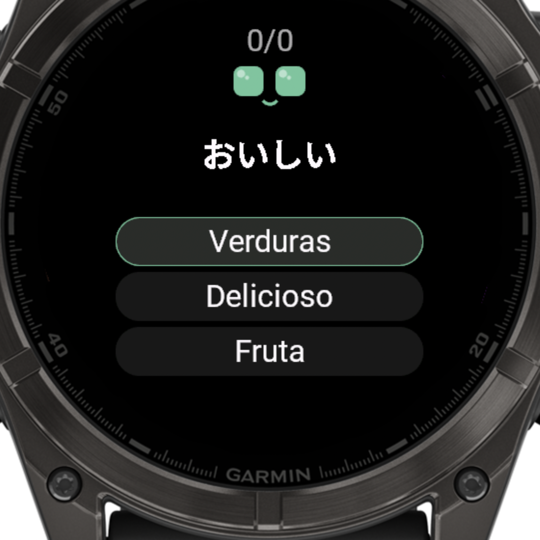
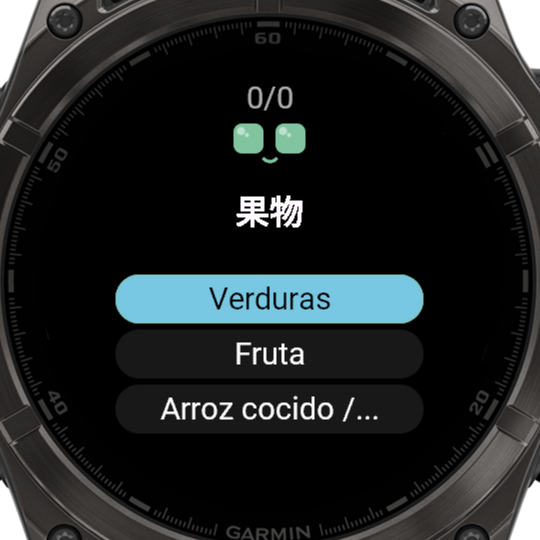
Reescribe el README con enfoque en funcionalidad y actualiza capturas

diff --git a/README.md b/README.md
@@ -1,13 +1,13 @@
 # Mi Asistente — Garmin fēnix 8
 
-Asistente personal con voz para el **Garmin fēnix 8 47mm AMOLED**, hecho con
-Connect IQ (Monkey C) y un backend en Vercel. Le preguntas hablando y responde
-en pantalla y por el altavoz del reloj, usando tus tareas, tus notas y los
-datos del propio reloj. Incluye práctica de japonés N5.
+Asistente personal por voz para el **Garmin fēnix 8 47mm AMOLED**, desarrollado
+con Connect IQ (Monkey C) y un backend serverless en Vercel. Responde en
+pantalla y por el altavoz del reloj, con el contexto de tus tareas, tus notas y
+los datos de salud y actividad del propio reloj. Incluye un módulo de práctica
+de japonés (nivel N5) y un panel web para administrarlo desde el teléfono.
 
-La cara sigue el estilo de [Monki](https://github.com/Niicko12/monki), el
-asistente de la Anbernic RG353V, pero es un asistente aparte: no usa su
-palabra de activación ni se conecta con él.
+El diseño de la interfaz se inspira en [Monki](https://github.com/Niicko12/monki),
+el asistente de la Anbernic RG353V.
 
 <p align="center">
   <img src="docs/capturas/01-escuchando.png" width="240" alt="Pantalla escuchando: ojos cian, aro de tiempo restante y texto Te escucho">
@@ -15,47 +15,53 @@ palabra de activación ni se conecta con él.
   <img src="docs/capturas/03-respuesta.png" width="240" alt="Respuesta: la pregunta entre comillas y la respuesta debajo">
 </p>
 
-<sub>Capturas del simulador de Connect IQ (fēnix 8 47mm). Los datos de actividad del simulador son ficticios.</sub>
+<sub>Capturas del simulador de Connect IQ (fēnix 8 47mm) con datos de ejemplo.</sub>
 
-## Qué hace
+## Funciones
 
-| Función | Detalle |
+| Función | Descripción |
 |---|---|
-| **Preguntar por voz** | Al abrir la app empieza a escuchar (hasta 12 s; toca para terminar). El audio va al backend, se transcribe y se responde. |
-| **Responde en voz alta** | La respuesta suena por el altavoz del reloj, por frases, mientras la boca se anima. |
-| **Datos del reloj** | Cada pregunta lleva batería, pasos, calorías, distancia, pisos, minutos de intensidad, pulso actual y en reposo, Body Battery, estrés, SpO2, respiración, recuperación, VO2máx, horario de sueño, clima y amanecer/atardecer. |
-| **Tareas y notas** | Se guardan en el reloj; las notas usan plantillas o el teclado. Las pendientes viajan como contexto. |
-| **Japonés N5** | Tarjetas con lectura, romaji, significado y pronunciación; quiz de 3 opciones que repite lo que fallas; quiz de hiragana; racha de días. Los verbos van en forma cortés ます y se traducen conjugados: たべます = «como (comer)». |
-| **Panel en el teléfono** | Menú → Configurar (QR) muestra un QR hacia [/api/setup](https://mi-asistente-garmin.vercel.app/api/setup) y un código de 6 dígitos para enlazarlo (vale 10 minutos y 5 intentos). Desde el panel: tareas, notas, preguntas rápidas, proyectos, tarjetas de japonés (la IA completa lectura, romaji y significado) y claves de IA. El reloj lo recoge al abrir su menú. |
-| **Estados visuales** | Ojos estilo Monki: disponible, escuchando, pensando, hablando, sin conexión y error. |
+| **Preguntas por voz** | La app empieza a escuchar al abrirse (hasta 12 s; un toque termina la grabación). El audio se transcribe y se responde en segundos. |
+| **Respuesta hablada** | La respuesta se reproduce por el altavoz del reloj, frase a frase, con la boca animada. |
+| **Contexto del reloj** | Cada pregunta incluye batería, pasos, calorías, distancia, pisos, minutos de intensidad, pulso actual y en reposo, Body Battery, estrés, SpO2, respiración, recuperación, VO2máx, horario de sueño, clima y amanecer/atardecer. |
+| **Tareas y notas** | Se guardan en el reloj, con plantillas o teclado, y acompañan cada pregunta como contexto. |
+| **Preguntas rápidas y proyectos** | Accesos directos a preguntas frecuentes y seguimiento de proyectos (último avance y siguiente paso). |
+| **Japonés N5** | Tarjetas con lectura, romaji, significado y pronunciación; quiz de tres opciones que prioriza lo que fallas; quiz de hiragana; racha diaria. Los verbos se presentan en forma cortés ます con su traducción conjugada (たべます = «como (comer)»). |
+| **Panel en el teléfono** | Menú → Configurar (QR): se escanea el QR y se enlaza con el código de 6 dígitos que muestra el reloj. Desde el panel se agregan tareas, notas, preguntas rápidas, proyectos y tarjetas de japonés (la IA completa lectura, romaji y significado), y se administran las claves de IA. |
+| **Estados visuales** | Ojos animados para disponible, escuchando, pensando, hablando, sin conexión y error. |
 
 <p align="center">
   <img src="docs/capturas/04-menu.png" width="180" alt="Menú principal">
   <img src="docs/capturas/05-japones-tarjeta.png" width="180" alt="Tarjeta de japonés sin voltear">
   <img src="docs/capturas/06-japones-revelada.png" width="180" alt="Tarjeta volteada con lectura, romaji y significado">
-  <img src="docs/capturas/07-japones-quiz.png" width="180" alt="Quiz de vocabulario con tres opciones">
+  <img src="docs/capturas/07-japones-quiz.png" width="180" alt="Quiz de vocabulario con la opción seleccionada en cian">
 </p>
 <p align="center">
-  <img src="docs/capturas/08-hiragana-quiz.png" width="180" alt="Quiz de hiragana tras una respuesta incorrecta">
+  <img src="docs/capturas/08-hiragana-quiz.png" width="180" alt="Quiz de hiragana con la respuesta correcta en verde">
   <img src="docs/capturas/09-diagnostico.png" width="180" alt="Pantalla de diagnóstico de capacidades">
+  <img src="docs/capturas/10-panel-qr.png" width="180" alt="QR del panel y código de enlace de 6 dígitos">
 </p>
 
-## Cómo funciona
+## Arquitectura
 
 ```text
 fēnix 8 ──BLE──▶ iPhone (Garmin Connect) ──HTTPS──▶ Vercel (integration-service)
   │                                                    │
   │  micrófono: Ogg/Opus 16 kHz                         ├─ Voz a texto: Whisper (Groq)
   │  datos del reloj + tareas + notas                   ├─ Respuesta: Groq ─▶ NVIDIA ─▶ Gemini
-  │                                                    └─ Texto a voz: Gemini ─▶ Google Cloud ─▶ Edge
+  │                                                    ├─ Texto a voz: Gemini ─▶ Google Cloud ─▶ Edge
+  │                                                    └─ Panel y sincronización: Vercel Blob (privado)
   ◀── respuesta (JSON) y voz por partes (Ogg/Opus en base64)
+
+iPhone (navegador) ──HTTPS──▶ /api/setup (panel) ──▶ /api/config
 ```
 
-- **Las claves de IA nunca están en el reloj.** El reloj solo conoce un token de dispositivo.
-- **Respaldo en cadena**, como en Monki: si un proveedor falla o se queda sin cuota, se usa el siguiente; el que se queda sin cuota se salta 10 minutos.
-- **Voz por partes:** el reloj rechaza respuestas web grandes (~27 KB fallaba, ~5–9 KB funciona). El texto se parte en frases y el reloj pide la siguiente mientras suena la actual.
-- **Fuente japonesa propia:** las fuentes del sistema no tienen kana ni kanji; `tools/make_font.py` genera una fuente BMFont con todo el hiragana y katakana más los kanji del mazo (223 caracteres). Las tarjetas del teléfono con kanji fuera de la fuente se muestran con su lectura en kana.
-- **Panel y claves:** lo que se agrega desde el teléfono y las claves de IA se guardan en un Blob privado de Vercel; las claves van cifradas (AES-256-GCM con una clave derivada de `DEVICE_TOKEN`) y tienen prioridad sobre las variables de entorno.
+- **Seguridad:** las claves de IA nunca se guardan en el reloj; el reloj se identifica con un token de dispositivo. Las claves que se cargan desde el panel se almacenan cifradas (AES-256-GCM) en un Blob privado y tienen prioridad sobre las variables de entorno.
+- **Enlace del panel:** el reloj solicita un código de 6 dígitos (válido 10 minutos y 5 intentos) que el teléfono canjea por una sesión. El token del dispositivo no se escribe en el teléfono.
+- **Alta disponibilidad:** cada servicio tiene proveedores de respaldo en cadena; un proveedor sin cuota se omite temporalmente.
+- **Voz por partes:** la respuesta se divide en frases y el reloj solicita la siguiente mientras reproduce la actual, para mantener cada transferencia ligera.
+- **Sincronización:** al abrir el menú, el reloj recoge lo agregado en el panel (`/api/sync`) y confirma lo guardado.
+- **Tipografía japonesa:** `tools/make_font.py` genera una fuente BMFont con el hiragana y katakana completos y los kanji del mazo. Las tarjetas creadas desde el panel se muestran con su lectura en kana cuando un kanji no forma parte de la fuente.
 
 ## Estructura
 
@@ -64,32 +70,33 @@ mi-asistente-garmin/
 ├── garmin-connect-iq/          app del reloj (Monkey C)
 │   ├── manifest.xml
 │   ├── Secrets.mc.example      plantilla de URL y token (Secrets.mc no se versiona)
-│   ├── resources/              textos, icono, QR de configuración y fuente japonesa
-│   └── source/
-│       ├── ListenView.mc       escuchar ▶ enviar ▶ responder
-│       ├── AnswerPanel.mc      respuesta con texto partido para pantalla redonda
-│       ├── SpeechPlayer.mc     voz por partes con Audio.Output
-│       ├── VoiceRecorder.mc    micrófono con Audio.Capture
-│       ├── WatchData.mc        datos del reloj que viajan con cada pregunta
-│       ├── EyesRenderer.mc     cara estilo Monki
-│       ├── Jp*.mc, JapaneseDeck.mc   práctica de japonés
-│       ├── SetupQrView.mc      QR del panel del teléfono
-│       ├── PhoneSync.mc        recoge tareas, notas y tarjetas del panel
-│       ├── JpCustom.mc         tarjetas de japonés del teléfono
-│       ├── JpCharset.mc        caracteres de la fuente (generado)
-│       └── Theme.mc            colores compartidos
+│   ├── resources/              textos, icono, QR del panel y fuente japonesa
+│   ├── source/
+│   │   ├── ListenView.mc       escuchar ▶ enviar ▶ responder
+│   │   ├── AnswerPanel.mc      respuesta adaptada a pantalla redonda
+│   │   ├── SpeechPlayer.mc     voz por partes con Audio.Output
+│   │   ├── VoiceRecorder.mc    micrófono con Audio.Capture
+│   │   ├── WatchData.mc        datos del reloj enviados con cada pregunta
+│   │   ├── EyesRenderer.mc     cara animada
+│   │   ├── Jp*.mc, JapaneseDeck.mc   módulo de japonés
+│   │   ├── JpCustom.mc         tarjetas creadas desde el panel
+│   │   ├── JpCharset.mc        caracteres de la fuente (generado)
+│   │   ├── SetupQrView.mc      QR y código de enlace del panel
+│   │   ├── PhoneSync.mc        sincronización con el panel
+│   │   └── Theme.mc            colores compartidos
+│   └── test/                   pruebas unitarias (Connect IQ Test)
 ├── integration-service/        backend en Vercel (Node.js + TypeScript)
 │   ├── api/ask.ts              pregunta escrita
 │   ├── api/ask-audio.ts        pregunta hablada
 │   ├── api/speak.ts            voz por partes
-│   ├── api/setup.ts            panel y guía para el teléfono (página HTML)
-│   ├── api/config.ts           lo que usa el panel: claves, bandeja y tarjetas
-│   ├── api/sync.ts             el reloj recoge lo agregado en el panel
-│   ├── api/pair.ts             código de 6 dígitos para enlazar el panel
-│   └── lib/                    proveedores de IA, voz, config (Blob) y codificador Ogg/Opus
+│   ├── api/setup.ts            panel web para el teléfono
+│   ├── api/pair.ts             código de enlace del panel
+│   ├── api/config.ts           API del panel
+│   ├── api/sync.ts             sincronización con el reloj
+│   └── lib/                    proveedores de IA y voz, configuración y codificador Ogg/Opus
 ├── tools/
-│   ├── mtp_send.py             instalar en el reloj por MTP
-│   └── make_font.py            generar la fuente japonesa y JpCharset.mc
+│   ├── mtp_send.py             instalación en el reloj por MTP
+│   └── make_font.py            fuente japonesa y JpCharset.mc
 └── docs/                       plan, validación de capacidades, capturas y mockup
 ```
 
@@ -105,10 +112,11 @@ vercel env add DEVICE_TOKEN production     # p. ej. openssl rand -hex 32
 vercel env add GROQ_API_KEY production
 vercel env add NVIDIA_API_KEY production   # opcional
 vercel env add GEMINI_API_KEY production
+vercel blob create-store mi-asistente-config --access private   # almacenamiento del panel
 vercel deploy --prod
 ```
 
-Detalle de endpoints y variables en [integration-service/README.md](integration-service/README.md).
+Endpoints y variables en [integration-service/README.md](integration-service/README.md).
 
 ### App del reloj
 
@@ -118,10 +126,10 @@ con el dispositivo `fenix847mm`, Java 17 y una clave de desarrollador:
 ```bash
 openssl genrsa -out developer_key.pem 4096
 openssl pkcs8 -topk8 -inform PEM -outform DER -in developer_key.pem -out developer_key.der -nocrypt
-cp garmin-connect-iq/Secrets.mc.example garmin-connect-iq/source/Secrets.mc   # y completar
+cp garmin-connect-iq/Secrets.mc.example garmin-connect-iq/source/Secrets.mc   # completar URL y token
 ```
 
-Compilar y probar en el simulador (en macOS, Java de Homebrew no está enlazado al sistema):
+Compilar y ejecutar en el simulador:
 
 ```bash
 export PATH="/opt/homebrew/opt/openjdk@17/bin:$PATH"
@@ -132,75 +140,57 @@ cd garmin-connect-iq
 "${SDK}bin/monkeydo" bin/MiAsistente.prg fenix847mm
 ```
 
-Pruebas unitarias (quiz y tarjetas del teléfono) en el simulador:
+Pruebas unitarias:
 
 ```bash
 "${SDK}bin/monkeyc" -d fenix847mm -f monkey.jungle -o bin/test.prg -y ../developer_key.der -t
 "${SDK}bin/monkeydo" bin/test.prg fenix847mm -t
 ```
 
-Regenerar la fuente japonesa tras cambiar el mazo (requiere Pillow y `tools/fonts/NotoSansJP.ttf`):
+### Instalación en el reloj
 
-```bash
-python3 -I tools/make_font.py tools/fonts/NotoSansJP.ttf garmin-connect-iq/source/JapaneseDeck.mc \
-  garmin-connect-iq/resources/fonts 34 garmin-connect-iq/source/JpCharset.mc
-```
-
-### Instalar en el reloj
-
-El fēnix 8 se conecta por MTP, no aparece en Finder. Conectarlo **directo al
-Mac (sin hub)** y en modo MTP; requiere `brew install libmtp`.
+El fēnix 8 se conecta por MTP. Con el reloj conectado directamente al Mac en
+modo MTP (requiere `brew install libmtp`):
 
 ```bash
 mtp-folders | grep -A1 GARMIN       # ID de la carpeta Apps
 python3 -I tools/mtp_send.py "$PWD/garmin-connect-iq/bin/MiAsistente.prg" <ID>
 ```
 
-El reloj instala la app al desconectar el cable. `mtp-sendfile` no sirve: no
-resuelve la ruta `GARMIN/Apps`.
+La app se instala al desconectar el cable.
 
-### Uso
+## Uso
 
-- Asignar Mi Asistente a un acceso directo (Ajustes → Sistema → Teclas de acceso rápido) para abrirla y hablar al instante.
-- En la app: toca para terminar de hablar o para preguntar otra vez; UP/DOWN desplaza respuestas largas.
-- Menú → **Configurar (QR)**: escanéalo con el iPhone y escribe el código de 6 dígitos que aparece debajo (o el `DEVICE_TOKEN`). El teléfono queda enlazado. El reloj recoge lo nuevo al abrir su menú (con el iPhone cerca; como mucho cada 2 minutos).
-- Japonés → Quiz: toca la opción, o mueve el resaltado cian con UP/DOWN y confirma con START. Un toque fuera de las opciones no responde. Cada significado cabe completo en su fila (lo comprueba `quizLabelsFit`).
+- **Acceso rápido:** asigna Mi Asistente a una tecla (Ajustes → Sistema → Teclas de acceso rápido) para preguntar al instante.
+- **Preguntar:** habla al abrir la app; un toque termina la grabación o inicia otra pregunta. UP/DOWN desplaza respuestas largas.
+- **Panel:** Menú → Configurar (QR). Escanea el QR con el iPhone y escribe el código de 6 dígitos. El teléfono queda enlazado y los cambios llegan al reloj al abrir su menú.
+- **Quiz de japonés:** toca una opción, o muévete con UP/DOWN y confirma con START.
 
 <p align="center">
-  <img src="docs/setup-qr.png" width="160" alt="QR que abre la guía de configuración en mi-asistente-garmin.vercel.app/api/setup">
+  <img src="docs/setup-qr.png" width="160" alt="QR del panel: mi-asistente-garmin.vercel.app/api/setup">
 </p>
 
-Para regenerar el QR si cambia la URL (requiere `pip install segno`):
+## Mantenimiento
+
+Regenerar la fuente japonesa tras modificar el mazo (requiere Pillow y `tools/fonts/NotoSansJP.ttf`):
+
+```bash
+python3 -I tools/make_font.py tools/fonts/NotoSansJP.ttf garmin-connect-iq/source/JapaneseDeck.mc \
+  garmin-connect-iq/resources/fonts 34 garmin-connect-iq/source/JpCharset.mc
+```
+
+Regenerar el QR si cambia la URL del backend (requiere `pip install segno`):
 
 ```bash
 python3 -c "import segno; q=segno.make('https://mi-asistente-garmin.vercel.app/api/setup', error='m'); \
-q.save('garmin-connect-iq/resources/drawables/setup_qr.png', scale=7, border=2); q.save('docs/setup-qr.png', scale=10, border=4)"
+q.save('garmin-connect-iq/resources/drawables/setup_qr.png', scale=6, border=2); q.save('docs/setup-qr.png', scale=10, border=4)"
 ```
-
-## Limitaciones conocidas
-
-- **No hay palabra de activación.** Connect IQ solo permite usar el micrófono con la app abierta en pantalla.
-- **Puntaje de sueño:** solo lo pueden leer las carátulas (`ComplicationSubscriber`), no las apps.
-- **Edge TTS** es un servicio no oficial de Microsoft; si deja de funcionar, la voz depende de Gemini o de Google Cloud TTS (`GOOGLE_TTS_API_KEY`).
-- Las preguntas necesitan el iPhone cerca con Garmin Connect.
-- Si el asistente responde algo en japonés, lo escribe en romaji y la voz en español lo pronuncia mal.
-
-## Antes de publicar en Connect IQ Store
-
-La app es de uso personal. Para publicarla (gratis o de pago) falta:
-
-- **Un token por usuario** o validar la compra con la API de licencias de Garmin: hoy `DEVICE_TOKEN` es único y va dentro de la app.
-- **Límite de preguntas por usuario**: cada pregunta consume las claves de IA del backend.
-- **Quitar Edge TTS**, que es un servicio no oficial.
-- **Política de privacidad**: la app envía audio y datos de salud.
-- **Más modelos** en `manifest.xml` (solo compila para `fenix847mm`).
-- Cuenta en el Garmin Developer Program y pagos de Connect IQ disponibles en el país.
 
 ## Documentación
 
 - [Plan del proyecto](docs/plan.md)
 - [Validación de capacidades del fēnix 8](docs/capability-validation.md)
-- [Mockup original](docs/mockup-original.png) (referencia de diseño; varias de sus pantallas se descartaron por duplicar funciones nativas)
+- [Mockup original](docs/mockup-original.png)
 
 ## Créditos
 

diff --git a/integration-service/README.md b/integration-service/README.md
@@ -33,16 +33,16 @@ Errores: `401 unauthorized`, `400 invalid request`, `500 server not configured`
 | `GEMINI_MODEL` | No | Por defecto `gemini-flash-latest` |
 | `NVIDIA_MODEL` | No | Por defecto `nvidia/nemotron-3.5-lightning-30b-a3b` |
 | `GROQ_MODEL` / `GROQ_STT_MODEL` | No | Por defecto `openai/gpt-oss-120b` / `whisper-large-v3-turbo` |
-| `BLOB_READ_WRITE_TOKEN` | Para el panel | La crea `vercel blob create-store mi-asistente-config --access private`; sin ella el panel es de solo lectura |
+| `BLOB_READ_WRITE_TOKEN` | Para el panel | Se crea con `vercel blob create-store mi-asistente-config --access private` |
 
 Las claves de IA (`GROQ_API_KEY`, `GEMINI_API_KEY`, `NVIDIA_API_KEY`,
 `GOOGLE_TTS_API_KEY`) también se pueden poner desde el panel. Se guardan
 cifradas en `config/settings.json` del Blob privado, con una clave derivada
 de `DEVICE_TOKEN`, y tienen prioridad sobre las variables de entorno. Al
-rotar `DEVICE_TOKEN` hay que volver a ponerlas en el panel.
+rotar `DEVICE_TOKEN` deben volver a cargarse desde el panel.
 
 ```bash
-vercel env add GEMINI_API_KEY production   # pide el valor; no lo pegues en chats
+vercel env add GEMINI_API_KEY production   # solicita el valor de forma interactiva
 vercel deploy --prod
 ```
 
